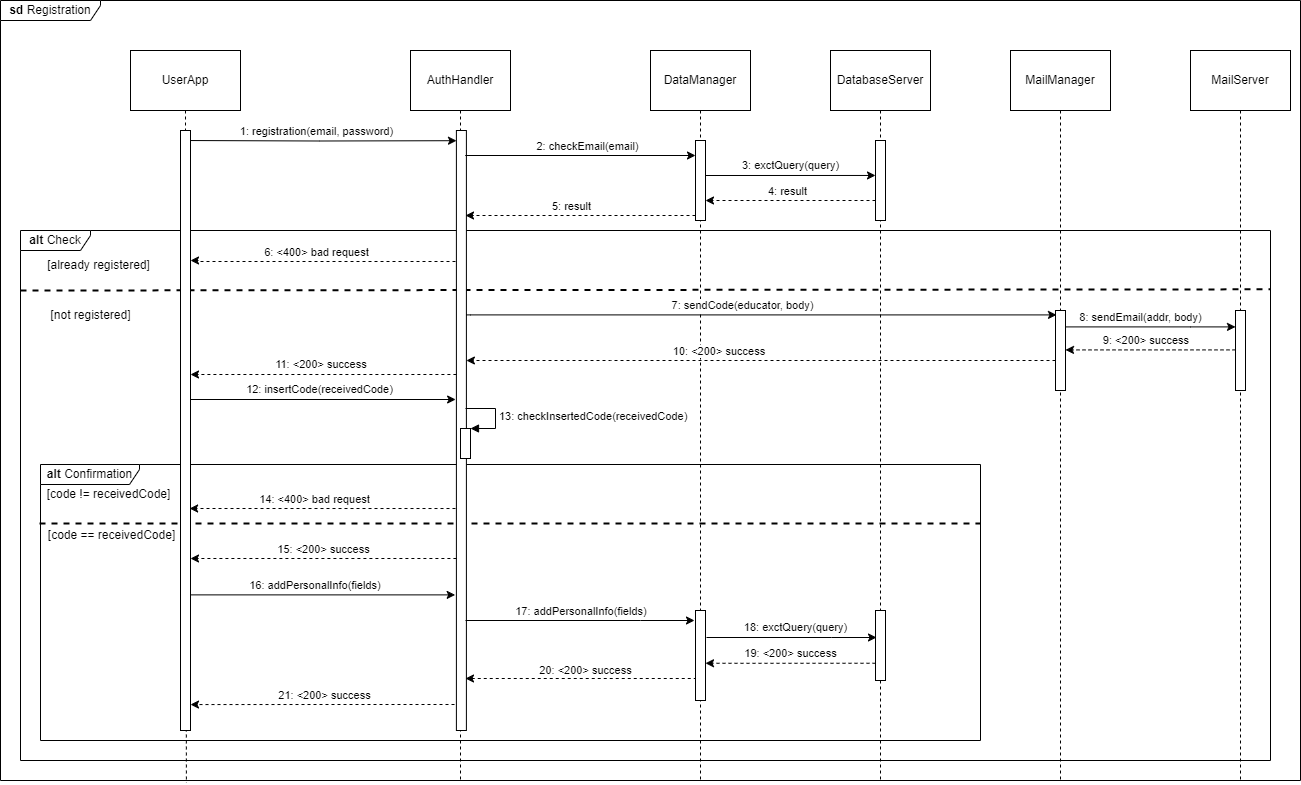
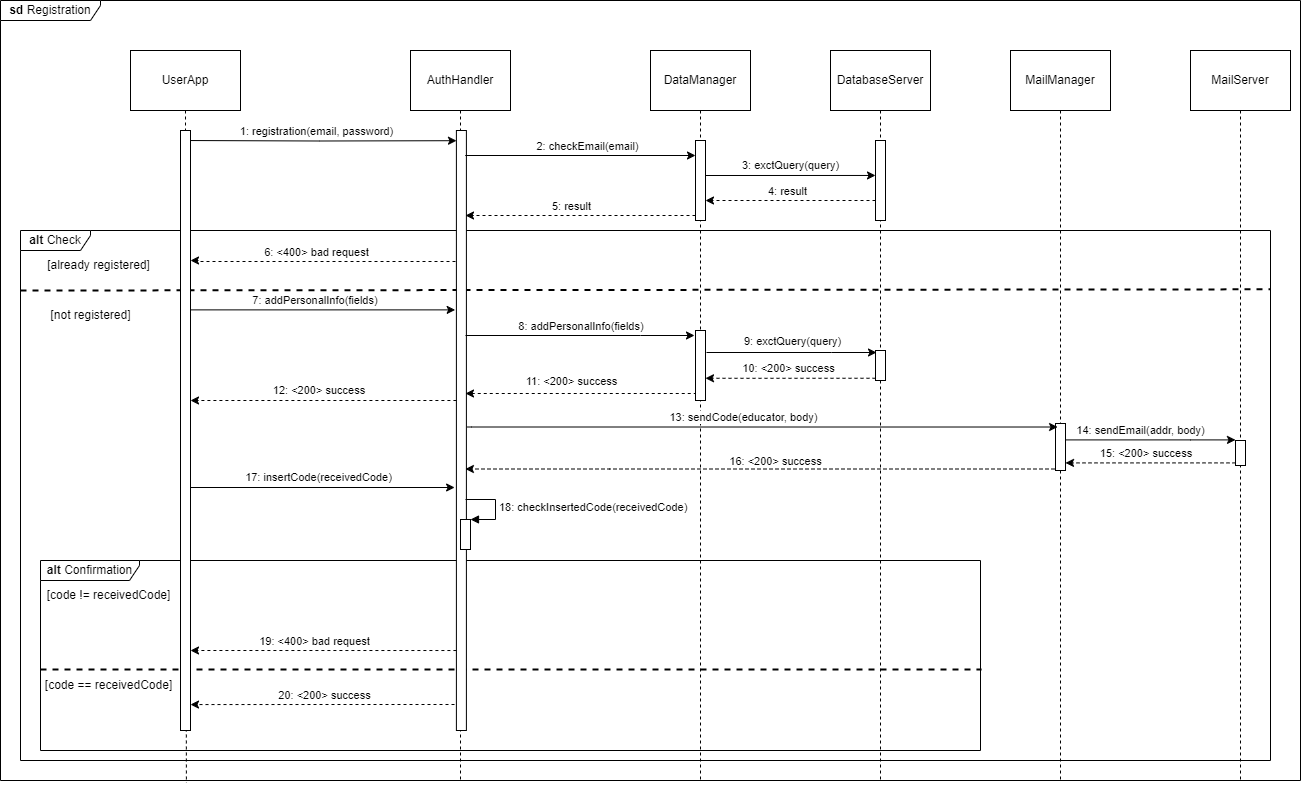
fixed registration sequence diagrams

diff --git a/RASD/chapters/03_specific_requirements.tex b/RASD/chapters/03_specific_requirements.tex
@@ -476,7 +476,7 @@ In case of exception the system will notify user with a human-readable message.
 \subsection{Sequence Diagrams}
 \begin{figure}[H]
     \centering
-    \includegraphics[width=0.95\textwidth]{images/seq_diagrams/Registration.jpg}
+    \includegraphics[width=0.95\textwidth]{images/seq_diagrams/Registration.png}
     \caption{Registration sequence diagram}
 \end{figure}
 \clearpage
